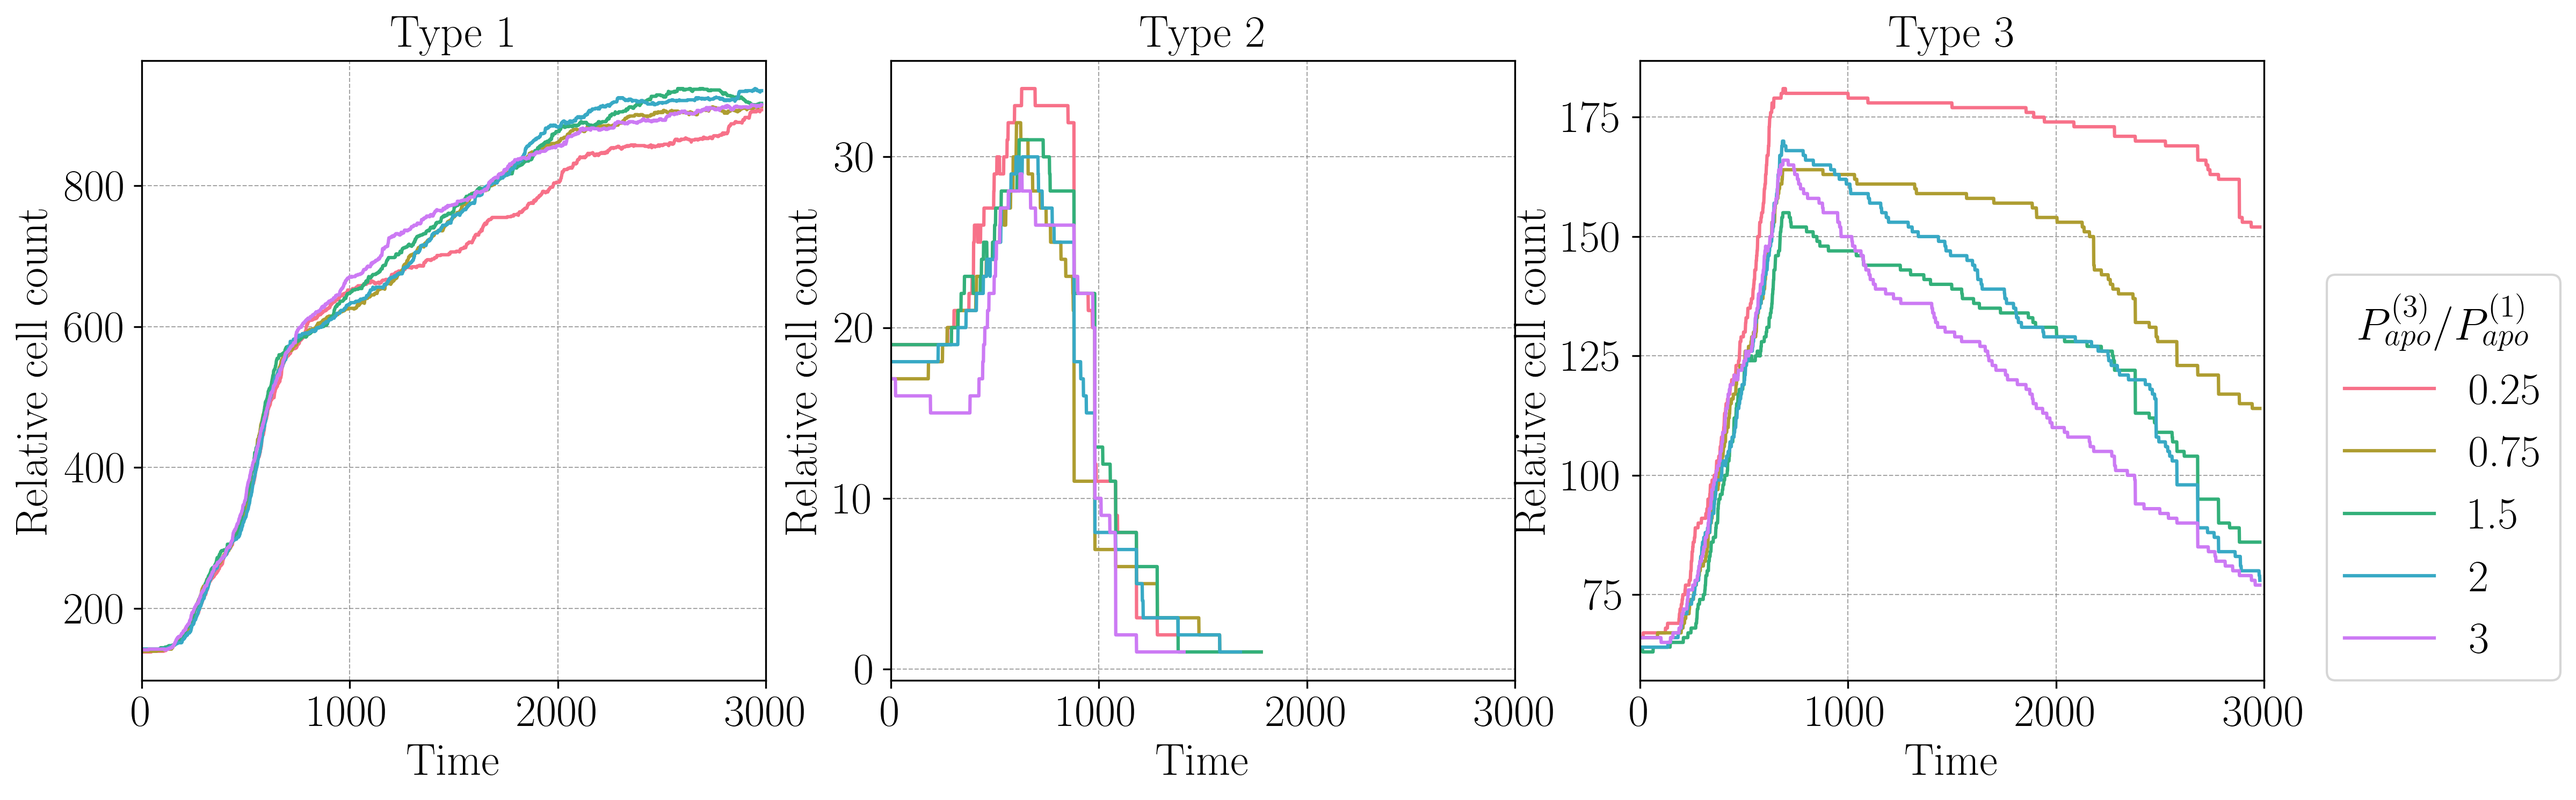
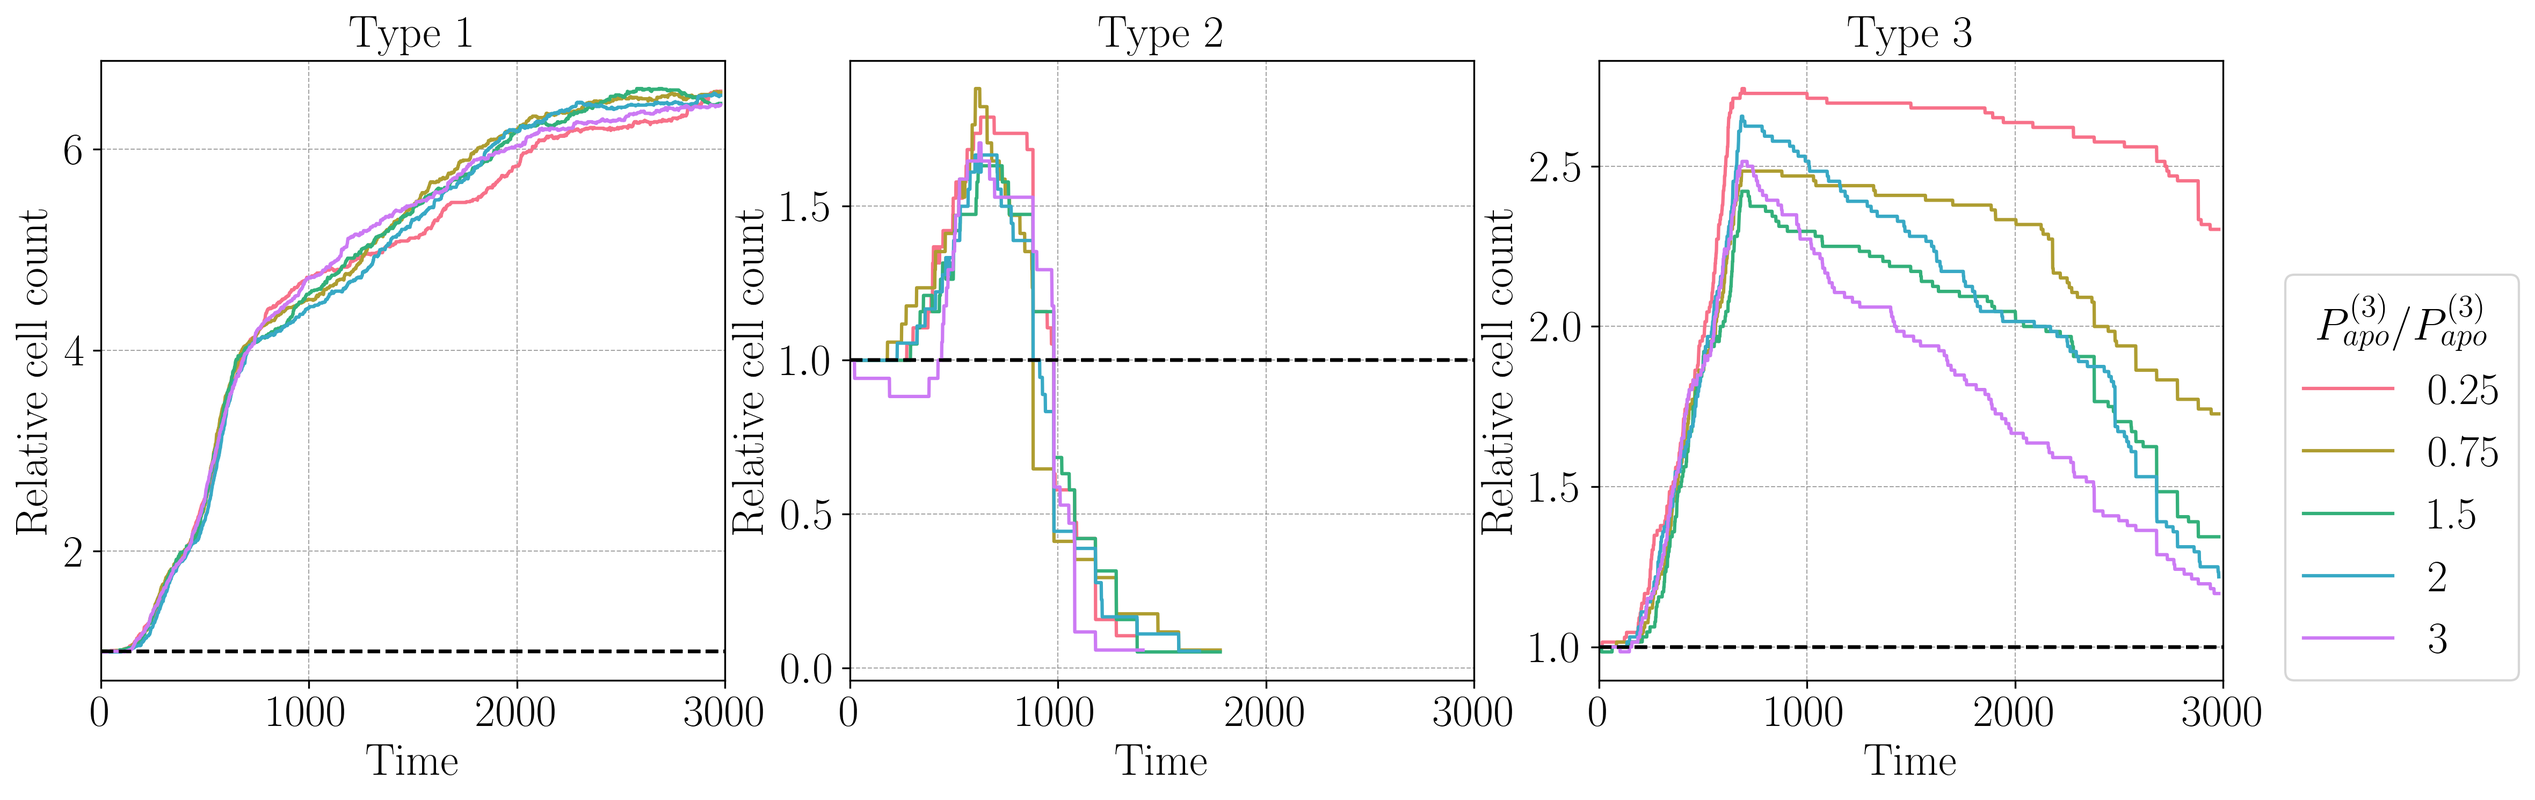
minor changes

diff --git a/Data/Files/simpleAnalysis.py b/Data/Files/simpleAnalysis.py
@@ -1,0 +1,155 @@
+## This script is meant to be a simple example of how to process the simulations.
+
+# Import the libraries
+import matplotlib.pyplot as plt
+import numpy as np
+import pandas as pd
+import _pickle as pkl
+import seaborn as sns
+import os 
+
+# Use a custom matplotlib style for the plots
+if os.path.exists("./paper.mplstyle"):
+    plt.style.use("./paper.mplstyle")
+    print("Using paper style")
+else:
+    print("Using default style")
+
+###########################################
+############# Data processing #############
+###########################################
+
+# Read data
+values = [1, 5, 9, 13, 17] # Values of the scan
+J23  = {} # Dictionary to store the results
+
+for v in values:
+    # Read the data
+    df = pd.read_csv('./ScanJ23_' + str(v))
+    # Group by time and cell type
+    df = df.groupby(['time', 'cell_type']).size().reset_index(name='count')
+
+    res = {}
+    for c in [1, 2, 3]:
+        time = df[df['cell_type'] == c]['time']
+        count = df[df['cell_type'] == c]['count']
+        res["Type"+str(c)] = {"time": time, "count": count}
+
+    J23[v] = res
+
+# Save the data
+with open('../Results/scan_J23.pkl', 'wb') as f:
+    pkl.dump(J23, f)
+
+
+###########################################
+################# Plotting ################
+###########################################
+# When it's needed a plot with three cell types
+with open('../Results/scan_J23.pkl', 'rb') as f:
+    data = pkl.load(f)
+
+fig, ax = plt.subplots(1, 3, figsize=(17, 5))
+
+data_legend = r"$J_{23}$"
+fontsize=20
+xlim = 3000
+colors = sns.color_palette("Set2", len(data.keys())) # Mechanical competition
+colors = sns.color_palette("husl", len(data.keys())) # Biochemical competition
+
+for i, v in enumerate(data.keys()):
+    c1 = data[v]["Type1"]["count"].iloc[0]
+    c2 = data[v]["Type2"]["count"].iloc[0]
+    c3 = data[v]["Type3"]["count"].iloc[0]
+    v_lab = v
+
+    time = data[v]["Type1"]["time"]
+    count = data[v]["Type1"]["count"]
+    count = count / count.iloc[0]
+    ax[0].plot(time, count, label=v_lab, color=colors[i])
+    ax[0].set_title("Type 1", fontsize=fontsize)
+    ax[0].legend(title=data_legend)
+    ax[0].set_xlabel("Time", fontsize=fontsize)
+    ax[0].set_ylabel("Relative cell count", fontsize=fontsize)
+    ax[0].set_xlim(0, xlim)
+    ax[0].hlines(1, 0, xlim, "black", "--")
+    ax[0].grid(True, linestyle='--', linewidth=0.5, alpha=0.7, color='gray')
+    ax[0].tick_params(axis='both', which='major', labelsize=fontsize)
+    ax[0].tick_params(axis='both', which='minor', labelsize=fontsize)
+
+    time = data[v]["Type2"]["time"]
+    count = data[v]["Type2"]["count"]
+    count = count / count.iloc[0]
+    ax[1].plot(time, count, label=v, color=colors[i])
+    ax[1].set_title("Type 2", fontsize=fontsize)
+    ax[1].set_xlabel("Time", fontsize=fontsize)
+    ax[1].set_ylabel("Relative cell count", fontsize=fontsize)
+    ax[1].set_xlim(0, xlim)
+    ax[1].hlines(1, 0, xlim, "black", "--")
+    ax[1].grid(True, linestyle='--', linewidth=0.5, alpha=0.7, color='gray')
+    ax[1].tick_params(axis='both', which='major', labelsize=fontsize)
+    ax[1].tick_params(axis='both', which='minor', labelsize=fontsize)
+
+    time = data[v]["Type3"]["time"]
+    count = data[v]["Type3"]["count"]
+    count = count / count.iloc[0]
+    ax[2].plot(time, count, label=v, color=colors[i])
+    ax[2].set_title("Type 3", fontsize=fontsize)
+    ax[2].set_xlabel("Time", fontsize=fontsize)
+    ax[2].set_ylabel("Relative cell count", fontsize=fontsize)
+    ax[2].set_xlim(0, xlim)
+    ax[2].hlines(1, 0, xlim, "black", "--")
+    ax[2].grid(True, linestyle='--', linewidth=0.5, alpha=0.7, color='gray')
+    ax[2].tick_params(axis='both', which='major', labelsize=fontsize)
+    ax[2].tick_params(axis='both', which='minor', labelsize=fontsize)
+
+
+ax[0].legend(title=data_legend, loc=[3.5, 0], ncols=1, 
+             fontsize=fontsize, title_fontsize=fontsize)
+plt.show()
+
+
+###########################################
+# When it's needed a plot with two cell types
+with open('../Results/ref_Jhetero.pkl', 'rb') as f:
+    data = pkl.load(f)
+
+fig, ax = plt.subplots(1, 2, figsize=(12, 5))
+
+data_legend = r"$J_{hetero}$"
+xlim = 3000
+fontsize=20
+colors = sns.color_palette("Set2", len(data.keys())) # Mechanical competition
+colors = sns.color_palette("husl", len(data.keys())) # Biochemical competition
+
+for i, v in enumerate(data.keys()):
+    time = data[v]["Type1"]["time"]
+    count = data[v]["Type1"]["count"]
+    count = count / count.iloc[0]
+    ax[0].plot(time, count, label=v, color=colors[i])
+    ax[0].set_title("Type 1", fontsize=fontsize)
+    ax[0].legend(title=data_legend)
+    ax[0].set_xlabel("Time", fontsize=fontsize)
+    ax[0].set_ylabel("Relative cell count", fontsize=fontsize)
+    ax[0].set_xlim(0, xlim)
+    ax[0].hlines(1, 0, 3000, "black", "--")
+    ax[0].grid(True, linestyle='--', linewidth=0.5, alpha=0.7, color='gray')
+    ax[0].tick_params(axis='both', which='major', labelsize=fontsize)
+    ax[0].tick_params(axis='both', which='minor', labelsize=fontsize)
+
+    time = data[v]["Type2"]["time"]
+    count = data[v]["Type2"]["count"]
+    count = count / count.iloc[0]
+    ax[1].plot(time, count, label=v, color=colors[i])
+    ax[1].set_title("Type 2", fontsize=fontsize)
+    ax[1].set_xlabel("Time", fontsize=fontsize)
+    ax[1].set_ylabel("Relative cell count", fontsize=fontsize)
+    ax[1].set_xlim(0, xlim)
+    ax[1].hlines(1, 0, 3000, "black", "--")
+    ax[1].grid(True, linestyle='--', linewidth=0.5, alpha=0.7, color='gray')
+    ax[1].tick_params(axis='both', which='major', labelsize=fontsize)
+    ax[1].tick_params(axis='both', which='minor', labelsize=fontsize)
+
+ax[0].legend(title=data_legend, loc=[2.3, 0], ncols=1, 
+             fontsize=fontsize, title_fontsize=fontsize)
+plt.show()
